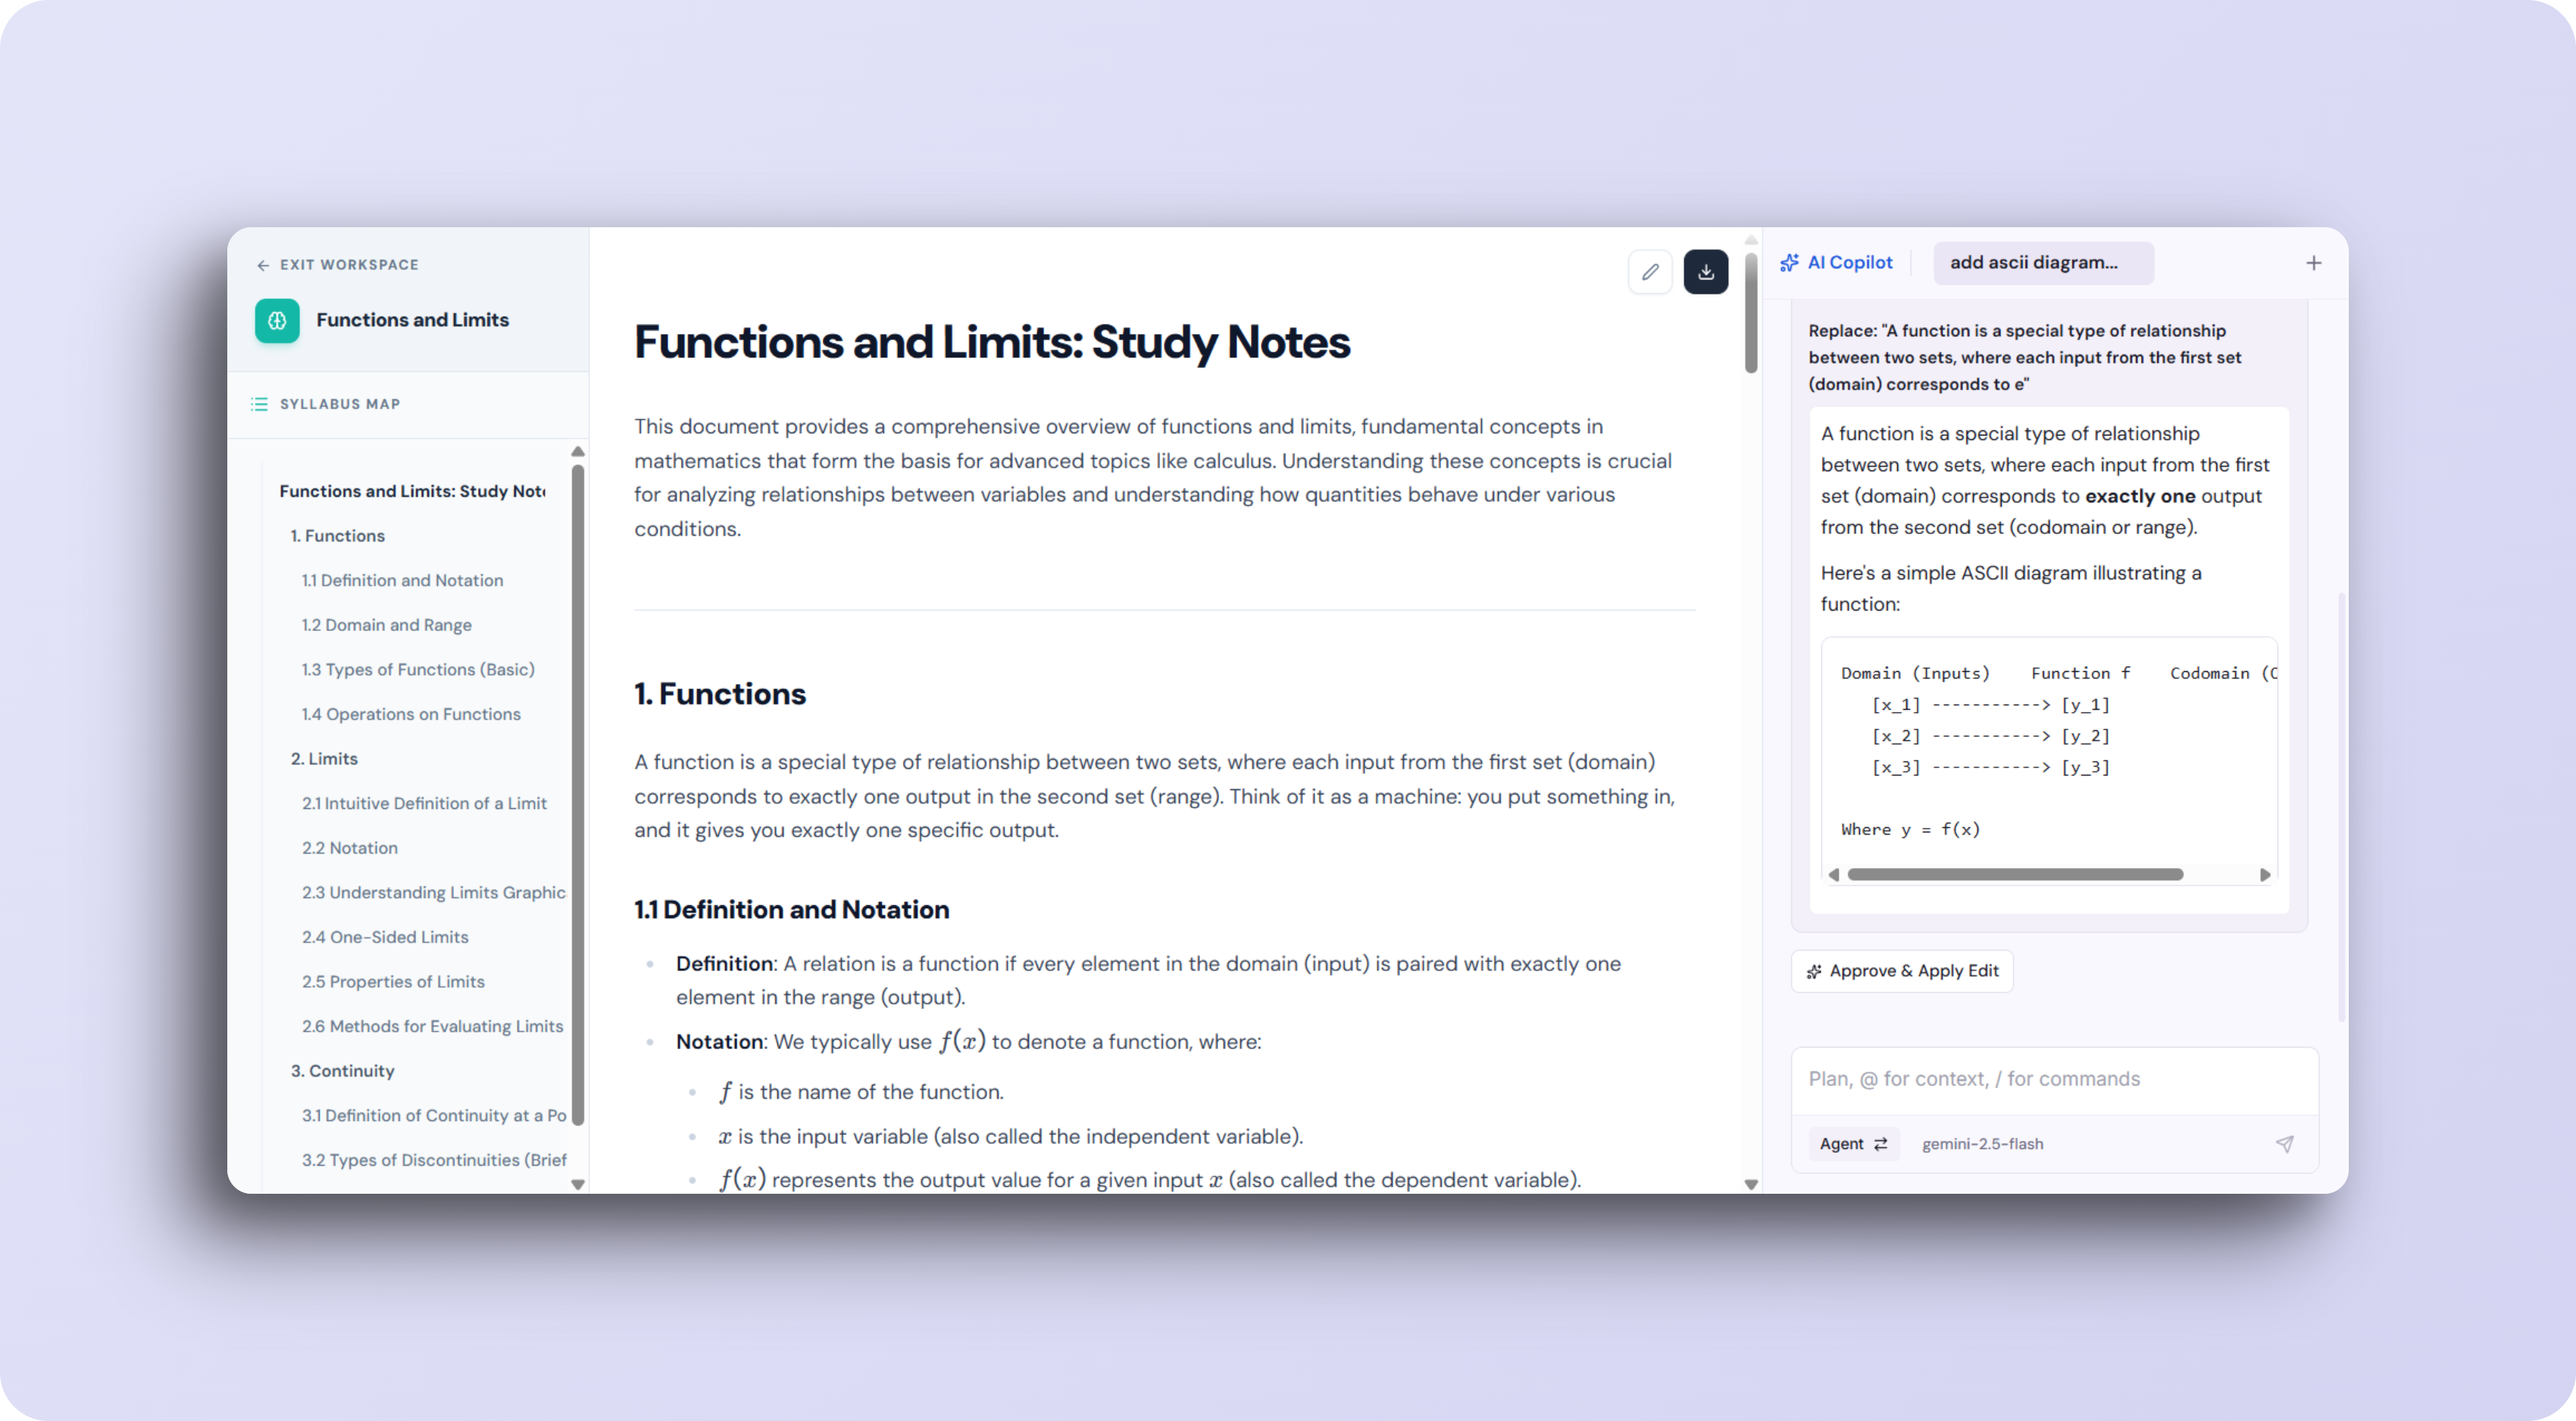
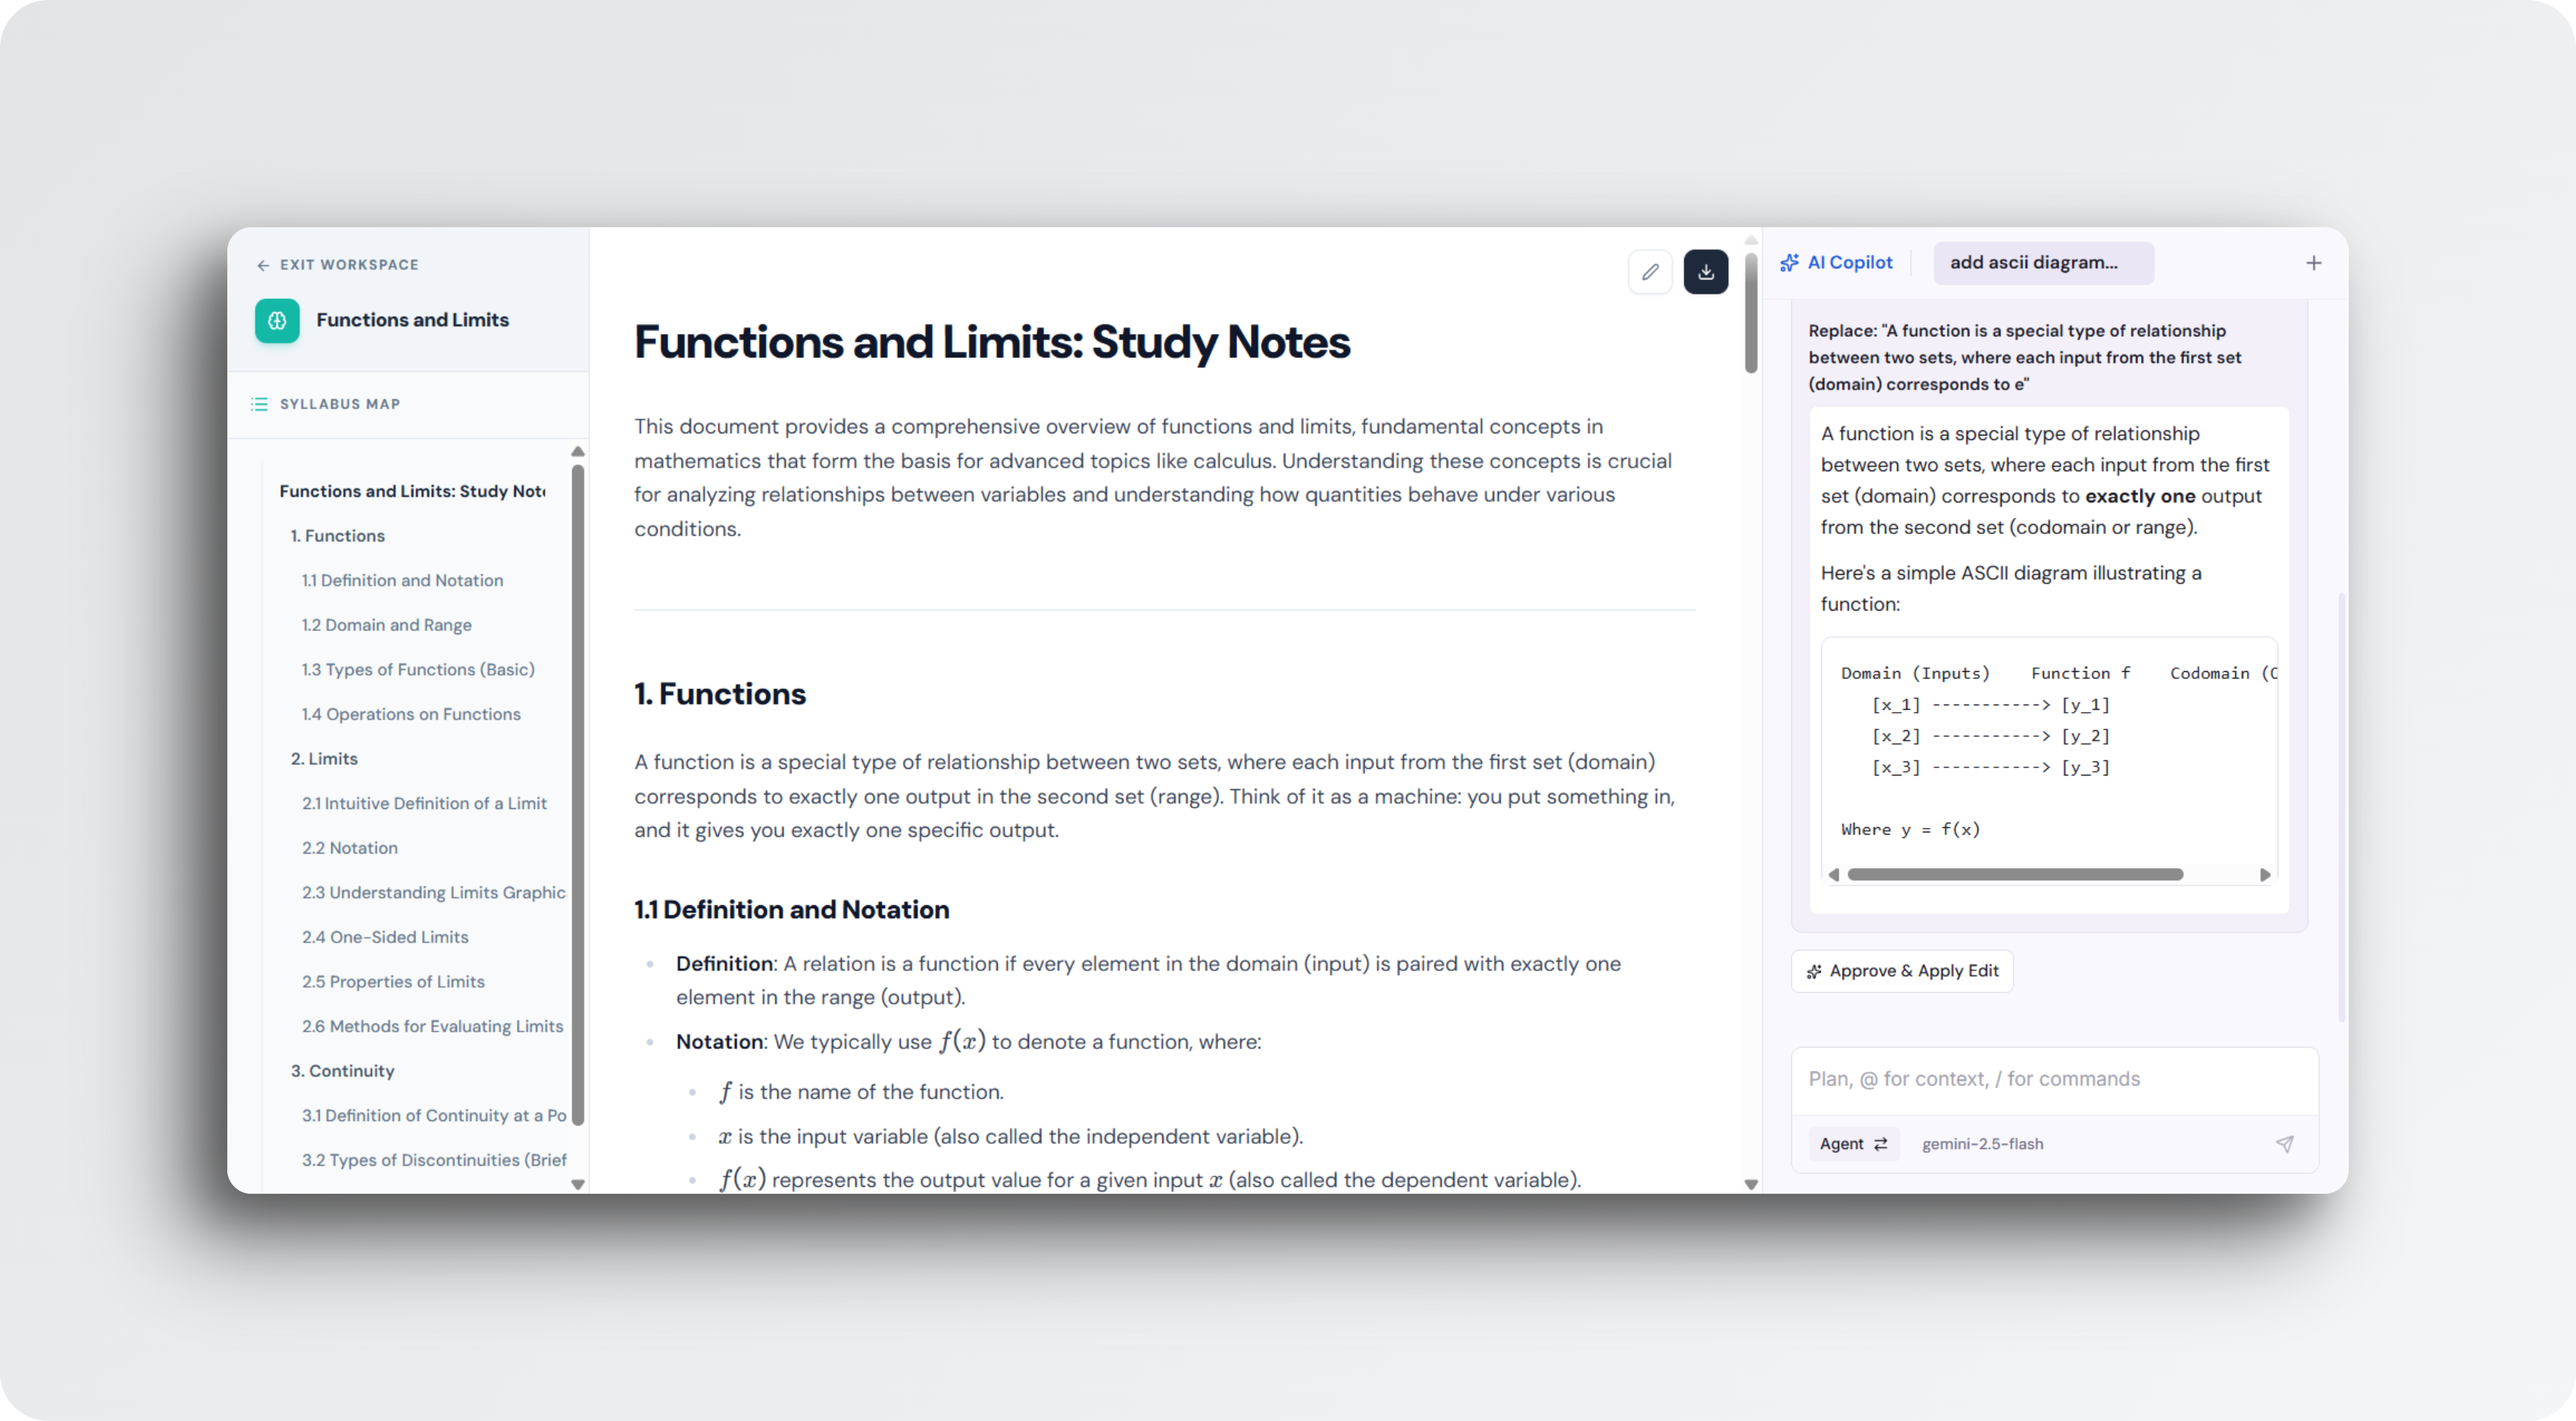
cascade done

Changed region(s): [[0.5924, 0.2473, 1.0, 1.0]]

diff --git a/generateCascade.js b/generateCascade.js
@@ -32,16 +32,16 @@ const htmlTemplate = (images) => {
     <style>
         body, html { margin: 0; padding: 0; background: transparent; display: inline-block; }
         #wrapper {
-            background: linear-gradient(135deg, #1e1e24 0%, #111115 100%);
-            padding: 150px;
+            background: linear-gradient(135deg, #e3e4e6 0%, #f4f5f7 100%);
             display: flex;
             position: relative;
-            /* Set fixed dimensions based on cascade spread */
-            width: 1600px;
+            /* Perfectly proportioned container to hold the 1200px images */
+            width: 2000px;
             height: 1200px;
             border-radius: 32px;
             overflow: hidden;
             perspective: 2000px;
+            box-sizing: border-box;
         }
         .mockup {
             position: absolute;
@@ -58,13 +58,13 @@ const htmlTemplate = (images) => {
         .mockup img {
             border-radius: 16px;
             display: block;
-            width: 900px; /* Fixed width to make them uniform */
+            width: 1200px; /* Increased from 900px to better fill screen */
             height: auto;
         }
-        /* Beautiful overlapping diagonal stack */
-        .img1 { top: 100px; left: 600px; z-index: 1; opacity: 0.6; }
-        .img2 { top: 200px; left: 400px; z-index: 2; opacity: 0.85; }
-        .img3 { top: 300px; left: 200px; z-index: 3; opacity: 1; }
+        /* Centered beautifully inside the 2000x1200 wrapper */
+        .img1 { top: 160px; left: 600px; z-index: 1; opacity: 0.85; }
+        .img2 { top: 260px; left: 400px; z-index: 2; opacity: 0.95; }
+        .img3 { top: 360px; left: 200px; z-index: 3; opacity: 1; }
     </style>
 </head>
 <body>

diff --git a/generateMockups.js b/generateMockups.js
@@ -22,7 +22,7 @@ const puppeteer = require('puppeteer');
 // 14. Smooth Matte Black  : '#121212'
 // 15. Transparent Output  : 'transparent'
 // =====================
-const BACKGROUND_GRADIENT = 'linear-gradient(135deg, #e4e4f9 0%, #d4d4f2 100%)';
+const BACKGROUND_GRADIENT = 'linear-gradient(135deg, #e3e4e6 0%, #f4f5f7 100%)';
 
 const inputDir = path.join(__dirname, 'input_images');
 const outputDir = path.join(__dirname, 'output_images');
